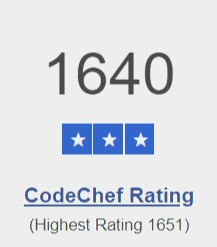
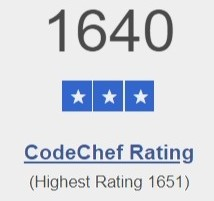
Added skills section

Changed region(s): [[0.2243, 0.0299, 0.8131, 0.6269], [0.1121, 0.7164, 0.9252, 0.9552]]

diff --git a/index.html b/index.html
@@ -23,7 +23,7 @@
       <ul class="nav_items">
         <li><a href="#about">ABOUT</a></li>
         <li><a href="#journey">MY JOURNEY</a></li>
-        <li><a href="#">SKILLS</a></li>
+        <li><a href="#skills">SKILLS</a></li>
         <li><a href="#">PROJECTS</a></li>
         <li><a href="#">CONNECT</a></li>
       </ul>
@@ -113,7 +113,7 @@
         <div class="achievement_item">
           <i class="fas fa-3x fa-medal"></i>
           <p>
-            <img src="./img/rating3.jpeg">       
+            <img src="./img/rating.jpeg">       
             at <br><b>CodeChef</b>
           </p>
         </div>
@@ -122,6 +122,48 @@
           <p>
             One among the top performers of <br><b>CodeShell</b><br>
             conducted by <br><b>Computer Society of India</b>
+          </p>
+        </div>
+      </div>
+    </div>
+  </section>
+
+  <section class="skills" id="skills">
+    <h1>My Skills</h6>
+    <div>
+      <div class="skill">
+        <div class="skill_text">
+          <h2>HTML, CSS & JS</h2>
+          <p>
+            Lorem ipsum dolor sit amet, consectetur adipiscing elit. 
+            Duis a pulvinar arcu. Donec nec bibendum nisl. 
+            Praesent sit amet lorem vitae dolor feugiat molestie 
+            eget sit amet justo. Nunc euismod id massa vel aliquet. 
+            Aenean luctus, quam in condimentum ornare, lorem sem 
+            vulputate leo, eget vulputate ex lacus at sapien.
+          </p>
+        </div>
+        <div class="skill_img">
+          <img src="./img/html.png" class="html_img">
+          <img src="./img/css.png" class="css_image">
+          <img src="./img/js.png" class="js_image">
+        </div>
+      </div>
+      <div class="skill">
+        <div class="skill_img down">
+          <img src="./img/code.jpg" class="coding_img">
+          <img src="./img/react.png" class="react_img">
+          <img src="./img/node.png" class="node_img">
+        </div>
+        <div class="skill_text">
+          <h2>Competitive, React JS & NodeJS</h2>
+          <p>
+            Lorem ipsum dolor sit amet, consectetur adipiscing elit. 
+            Duis a pulvinar arcu. Donec nec bibendum nisl. 
+            Praesent sit amet lorem vitae dolor feugiat molestie 
+            eget sit amet justo. Nunc euismod id massa vel aliquet. 
+            Aenean luctus, quam in condimentum ornare, lorem sem 
+            vulputate leo, eget vulputate ex lacus at sapien.
           </p>
         </div>
       </div>

diff --git a/styles.css b/styles.css
@@ -115,7 +115,7 @@ nav{
   background-color: #eee;
   font-family: 'Poppins', sans-serif;
   padding: 0% 10%;
-  padding-bottom: 10%;
+  padding-bottom: 7%;
 }
 .underline{
   height: 5px;
@@ -170,7 +170,7 @@ nav{
   box-shadow: 0 4px 8px 0 rgba(0, 0, 0, 0.4), 0 6px 20px 0 rgba(0, 0, 0, 0.29);
   height: 250px;
   width: 250px;
-  margin-top: 30px;
+  margin: 30px 20px;
   border-radius: 25px;
   padding: 0% 2%;
   text-align: center;
@@ -183,12 +183,91 @@ nav{
   transform: translateY(-9px);
   display: block;
 }
-
-
 /* MY JOURNEY SECTION ENDS */
+
+/* MY SKILL SECTION */
+
+.skills{
+  height: auto;
+  transform: translateY(7%);
+  /* background-color: darkslategrey; */
+  background-color: rgb(31, 73, 73);
+  color: #eee;
+  font-family: 'Poppins',cursive;
+  padding: 1% 10%;
+}
+.skills h1{
+  text-align: center;
+  font-size: 40px;
+  margin-top: 18px;
+  font-weight: 2200;
+}
+.skill{
+  border: solid 2px #eee;
+  padding: 2% 3%;
+  display: flex;
+  flex-wrap: wrap;
+  justify-content: center;
+  align-items: center;
+  border-radius: 20px;
+  margin-top: 35px;
+}
+.skill_text{
+  width: 60%;
+  padding: 2% 2%;
+}
+.skill_img{
+  width: 40%;
+  display: flex;
+  justify-content: space-around;
+  align-items: center;
+}
+.skills h2{
+  margin-bottom: 14px;
+}
+
+.skill_img i{
+  font-size: 8.1vw;
+}
+
+.html_img{
+  width: 33%;
+}
+.css_image{
+  width: 24%;
+}
+.js_image{
+  width: 29%;
+  margin-top: 5%;
+}
+.react_img{
+  width: 32%;
+}
+.node_img{
+  width: 32%;
+}
+.coding_img{
+  width: 28%;
+}
+.skill_img i{
+  color: #eee;
+}
+.skill_img img:hover{
+  transform: scale(1.3);
+}
+.skill_img i:hover{
+  transform: scale(1.3);
+}
+
+
+/* END OF MY SKILLS SECTION */
+
 @media (max-width:940px){
   .journey{
     transform: translateY(5.5%);
+  }
+  .skills{
+    transform: translateY(17.5%);
   }
 }
 
@@ -244,6 +323,16 @@ nav{
   }
   .achievement_item i{
     size: 20px;
+  }
+  .skill_img{
+    margin-top: 15px;
+    width: 74%;
+  }
+  .skill_text{
+    width: 100%;
+  }
+  .down{
+    order: 2;
   }
 }
 
